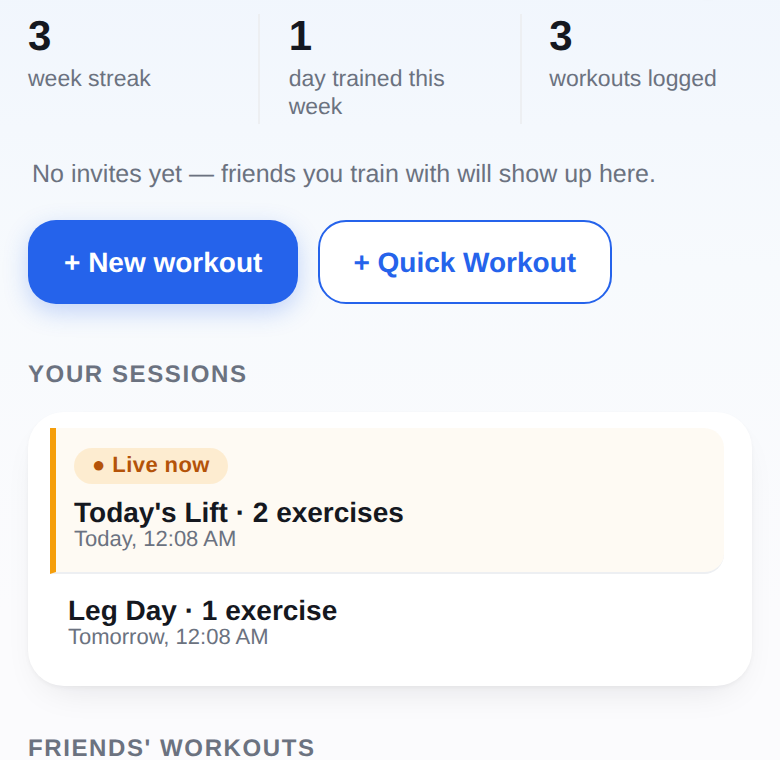
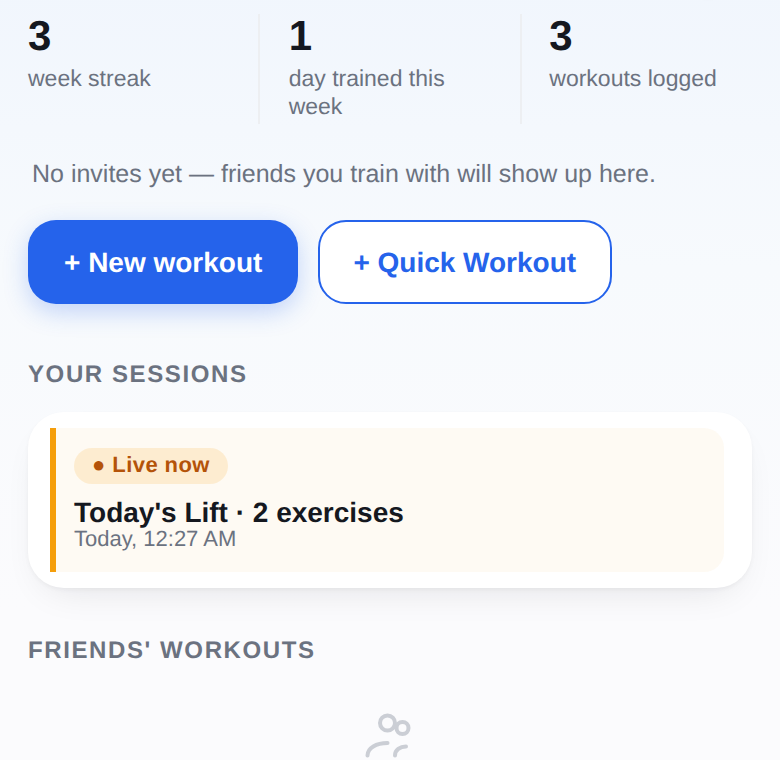
Add accepting a friend's invite and Log & Finish; reorder to one story
Jeff, after reviewing round 3: "add the accepting and anything else you
view as value that a new user should know and be walked through on the
app for a tutorial and route it in the order that makes sense."

- New card: accepting a friend's invite from the Home banner
  (Accept/Decline) -- the missing link before "Suggest a change," which
  already assumed you'd joined someone else's workout.
- New card: Log & Finish -- the step that actually ends a workout and
  is what makes it postable, which the feed card is the payoff of.
- Reordered all 8 cards into one start-to-finish story: Home -> invite
  friends when creating a workout -> accept a friend's invite ->
  suggest a change on what you just joined -> tap to log -> the
  suggested weight -> Log & Finish -> friends' activity feed.
- Regenerated affected screenshot assets (both themes); home is
  visibly lighter now since it's captured before the invite exists
  rather than after an accepted one lingers on the page.

Bump app.js cache-bust to v301.

Claude-Session: https://claude.ai/code/session_01C9m9zF5AqDL6nk8JiYSqxw

diff --git a/public/app.js b/public/app.js
@@ -4953,10 +4953,13 @@ function toggleTheme(){
 // than live coachmarks pinned to the real elements during actual use -- that scope call from the
 // first round stands; only the CONTENT of each card changed, not where the tour lives.
 //
-// Six cards, stepped with Back/Next rather than true swipe (simpler to build and to verify with
-// a click-based test; dots make the position clear regardless). State (which card) is stashed on
-// the sheet element itself via sheetEl._wkIdx, matching the _recSeq pattern above -- only one
-// walkthrough sheet is ever open at once, so there's nothing to reset between opens.
+// Eight cards, in one start-to-finish story (Home -> invite friends -> accept a friend's invite
+// -> suggest a change on a workout you joined -> tap to log -> the suggested weight -> Log &
+// Finish -> the friends' feed your finished workout lands in), stepped with Back/Next rather than
+// true swipe (simpler to build and to verify with a click-based test; dots make the position
+// clear regardless). State (which card) is stashed on the sheet element itself via
+// sheetEl._wkIdx, matching the _recSeq pattern above -- only one walkthrough sheet is ever open
+// at once, so there's nothing to reset between opens.
 //
 // Auto-opens exactly once: right after a brand-new registration succeeds (see doReg, in the auth
 // section near the top of this file), never via a persisted "seen" flag. That keeps this simple
@@ -4978,6 +4981,14 @@ const WK_CARDS = [
     title:'Invite friends when you create a workout',
     body:"Building a workout? Check off crew members to invite them before you save — they'll get it on their end and can join in.",
     hl:{top:64.21,left:2.05,width:95.9,height:28.95} },
+  { shot:'accept',
+    title:"Accepting a friend's invite",
+    body:"When a crew member invites you, it shows up right on Home. Accept to join in, Decline if you can't make it — either way, no digging required.",
+    hl:{top:42.42,left:4.36,width:91.28,height:24.35} },
+  { shot:'suggest',
+    title:'Joined a workout? Suggest a change',
+    body:"Didn't create the workout but want a different exercise? Propose a replacement or suggest adding one — the creator approves it before it changes for everyone.",
+    hl:{top:33.03,left:2.56,width:94.87,height:67.37} },
   { shot:'taplog',
     title:'Tap any exercise to log it',
     body:'Every exercise shows a "Tap to log sets" hint underneath it — but once CrewFit knows your recent numbers, that hint upgrades to a specific suggestion like "Try 140 lb today." Either way, tap in and log your sets.',
@@ -4986,10 +4997,10 @@ const WK_CARDS = [
     title:'Watch for the suggested weight',
     body:'Inside the log sheet, a box shows what to try next based on your recent sessions — tap it to fill the weight in for you. It keeps updating after each set you log today.',
     hl:{top:56.32,left:4.62,width:90.77,height:18.95} },
-  { shot:'suggest',
-    title:'Joined a workout? Suggest a change',
-    body:"Didn't create the workout but want a different exercise? Propose a replacement or suggest adding one — the creator approves it before it changes for everyone.",
-    hl:{top:33.03,left:2.56,width:94.87,height:67.37} },
+  { shot:'finish',
+    title:"Log & Finish when you're done",
+    body:"This locks in your sets, counts toward your streak and weekly volume, and lets you post a recap — which is what shows up in your crew's feed.",
+    hl:{top:36.25,left:2.05,width:28.37,height:13.13} },
   { shot:'feed',
     title:'See what your crew is up to',
     body:"Friends' Activity shows workouts, streaks, and PRs from people you follow — tap one to see the full workout.",

diff --git a/public/index.html b/public/index.html
@@ -557,7 +557,7 @@
        .wk-hl positioned by percentage (of the cropped screenshot's own box, computed alongside
        each capture, not guessed) — drawn over the real element via the classic box-shadow-spread
        dimming trick: a huge spread on .wk-hl itself dims everything OUTSIDE its rounded box,
-       clipped to .wk-shot-wrap's own overflow:hidden edge. One sheet, six cards stepped with
+       clipped to .wk-shot-wrap's own overflow:hidden edge. One sheet, eight cards stepped with
        Back/Next rather than true swipe (simpler to build and to verify with a click-based test;
        dots make the position clear regardless). */
     .wk-dots { display:flex; justify-content:center; gap:6px; margin:2px 0 14px; }
@@ -1117,6 +1117,6 @@
     <button data-tab="friends"><svg viewBox="0 0 24 24" width="22" height="22" fill="none" stroke="currentColor" stroke-width="2" stroke-linecap="round" stroke-linejoin="round"><path d="M17 21v-2a4 4 0 0 0-4-4H5a4 4 0 0 0-4 4v2"/><circle cx="9" cy="7" r="4"/><path d="M23 21v-2a4 4 0 0 0-3-3.87"/><path d="M16 3.13a4 4 0 0 1 0 7.75"/></svg><span>Friends</span></button>
     <button data-tab="me"><svg viewBox="0 0 24 24" width="22" height="22" fill="none" stroke="currentColor" stroke-width="2" stroke-linecap="round" stroke-linejoin="round"><path d="M20 21v-2a4 4 0 0 0-4-4H8a4 4 0 0 0-4 4v2"/><circle cx="12" cy="7" r="4"/></svg><span>Profile</span></button>
   </div>
-  <script src="app.js?v=300"></script>
+  <script src="app.js?v=301"></script>
 </body>
 </html>
